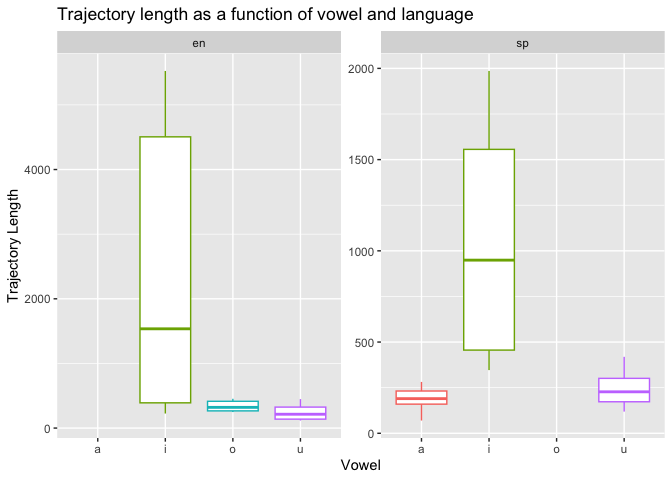
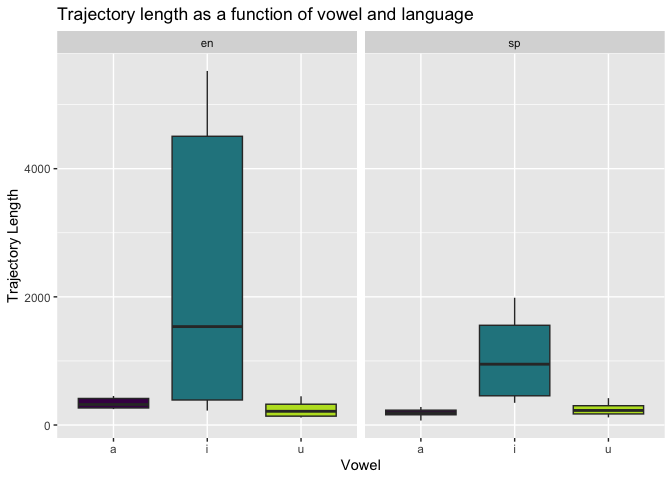
change some colors

diff --git a/README.md b/README.md
@@ -1,5 +1,5 @@
 # Programming Assignment 3
-2024-03-29
+2024-04-01
 
 # The script
 
@@ -93,22 +93,8 @@ write (and easier to make a mistake) and perhaps it has a higher
 
 ``` r
 library("tidyverse")
-```
-
-    ── Attaching packages ─────────────────────────────────────── tidyverse 1.3.2 ──
-    ✔ ggplot2 3.4.0     ✔ purrr   1.0.1
-    ✔ tibble  3.2.1     ✔ dplyr   1.1.0
-    ✔ tidyr   1.3.0     ✔ stringr 1.5.0
-    ✔ readr   2.1.3     ✔ forcats 1.0.0
-    ── Conflicts ────────────────────────────────────────── tidyverse_conflicts() ──
-    ✖ dplyr::filter() masks stats::filter()
-    ✖ dplyr::lag()    masks stats::lag()
-
-``` r
 library("here")
 ```
-
-    here() starts at /Users/meritxellfeliuribas/Desktop/pa_3
 
 ``` r
 data <- read_csv(here("data", "vowel_data.csv"))
@@ -171,7 +157,7 @@ glimpse(data)
     Columns: 17
     $ id       <chr> "apv", "apv", "apv", "apv", "apv", "apv", "apv", "apv", "apv"…
     $ item     <chr> "meet", "beat", "feet", "seat", "heat", "fleet", "moss", "bot…
-    $ vowel    <chr> "i", "i", "i", "i", "i", "i", "o", "o", "o", "o", "o", "o", "…
+    $ vowel    <chr> "i", "i", "i", "i", "i", "i", "a", "a", "a", "a", "a", "a", "…
     $ language <chr> "en", "en", "en", "en", "en", "en", "en", "en", "en", "en", "…
     $ f1_cent  <dbl> 431.55, 304.89, 328.76, 341.11, 365.02, 395.27, 716.20, 744.2…
     $ f2_cent  <dbl> 1395.01, 1866.02, 2194.84, 2297.86, 2004.63, 2341.64, 1040.77…
@@ -186,6 +172,8 @@ glimpse(data)
     $ f2_50    <dbl> 2444.92, 2414.35, 2333.45, 2294.87, 1862.47, 2402.81, 1014.69…
     $ f2_65    <dbl> 674.56, 834.91, 2346.27, 2338.29, 2450.00, 2330.96, 1078.70, …
     $ f2_80    <dbl> 783.21, 2480.01, 2051.60, 2282.94, 2343.41, 2359.00, 1144.02,…
+
+## Descriptive stats
 
 ``` r
 data %>%
@@ -206,20 +194,23 @@ data %>%
     # Groups:   language [2]
       language vowel f1_cent_mean f1_sd f2_cent_mean f2_sd tl_mean  tl_sd
       <chr>    <chr>        <dbl> <dbl>        <dbl> <dbl>   <dbl>  <dbl>
-    1 en       i             361.  46.4        2017. 354.    2388. 2441. 
-    2 en       o             679.  40.8        1099.  51.0    339.   90.5
+    1 en       a             679.  40.8        1099.  51.0    339.   90.5
+    2 en       i             361.  46.4        2017. 354.    2388. 2441. 
     3 en       u             436.  29.1         989. 108.     245.  133. 
     4 sp       a             757.  19.9        1370.  32.7    188.   73.8
     5 sp       i             386.  34.4        1532. 217.    1047.  700. 
     6 sp       u             425.  13.9         900.  65.3    245.  110. 
 
+## Plots
+
 ``` r
 # trajectory length as a function of vowel and language
 data %>%
   ggplot() +
-  aes(x = vowel, y = tl, color = vowel) +
-  facet_wrap(. ~ language, scales = "free_y") +
+  aes(x = vowel, y = tl, fill = vowel) +
+  facet_wrap(. ~ language) +
   geom_boxplot(show.legend = F) +
+  scale_fill_viridis_d(name = NULL, end = 0.9) +
   labs(x = "Vowel", y = "Trajectory Length", title = "Trajectory length as a function of vowel and language")
 ```
 
@@ -229,9 +220,10 @@ data %>%
 # f1 centroids as a function of vowel and language
 data %>%
   ggplot() +
-  aes(x = vowel, y = f1_cent, color = vowel) +
-  facet_wrap(. ~ language, scales = "free_y") +
+  aes(x = vowel, y = f1_cent, fill = vowel) +
+  facet_wrap(. ~ language) +
   geom_boxplot(show.legend = F) +
+  scale_fill_viridis_d(name = NULL, end = 0.9) +
   scale_y_reverse() +
   labs(x = "Vowel", y = "F1", title = "F1 as a function of vowel and language")
 ```
@@ -242,26 +234,56 @@ data %>%
 # f2 centroids as a function of vowel and language
 data %>%
   ggplot() +
-  aes(x = vowel, y = f2_cent, color = vowel) +
-  facet_wrap(. ~ language, scales = "free_y") +
+  aes(x = vowel, y = f2_cent, fill = vowel) +
+  facet_wrap(. ~ language) +
   geom_boxplot(show.legend = F) +
+  scale_fill_viridis_d(name = NULL, end = 0.9) +
   scale_y_reverse() +
   labs(x = "Vowel", y = "F2", title = "F2 as a function of vowel and language")
 ```
 
 ![](README_files/figure-commonmark/plots-3.png)
 
+## Challenge
+
 ``` r
-# Spectral centroids in F1/F2 vowel space
-data %>%
-  ggplot() +
-  aes(x = f2_cent, y = f1_cent, color = vowel) +
-  facet_grid(. ~ language) +
-  geom_point() +
-  stat_ellipse() +
-  scale_x_reverse() +
-  scale_y_reverse() +
-  labs(x = "F2", y = "F1", title = "Spectral centroids in F1/F2 vowel space by language")
+# trajectory length in the F1/F2 vowel space
+
+# I really wanted to try to make this one, but I had to focus on my QP (or, if not, it will never get done). I will definitely try it when the course is over, if you don't show us how to do it :) 
+
+# spectral centroids in F1/F2 vowel space
+vowel_means <- data %>% 
+  group_by(vowel, language) %>% 
+  summarize(f1_cent = mean(f1_cent), f2_cent = mean(f2_cent)) %>% 
+  ungroup() %>% 
+  mutate(order = case_when(vowel == "i" ~ 1, vowel == "a" ~ 2, TRUE ~ 3), 
+         vowel = forcats::fct_reorder2(vowel, vowel, order)) %>% 
+  arrange(order)
 ```
 
-![](README_files/figure-commonmark/plots-4.png)
+    `summarise()` has grouped output by 'vowel'. You can override using the
+    `.groups` argument.
+
+``` r
+data %>%
+  mutate(vowel = forcats::fct_relevel(vowel, "u", "a", "i")) %>% 
+  ggplot() +
+  aes(x = f2_cent, y = f1_cent, color = language, label = vowel) + 
+  geom_text(size = 3.5, alpha = 0.6, show.legend = F) + 
+  geom_path(
+    data = vowel_means, 
+    aes(group = language, lty = language), 
+    color = "grey") + 
+  geom_text(data = vowel_means, show.legend = F, size = 7) + 
+  scale_y_reverse() + 
+  scale_x_reverse() + 
+  scale_color_brewer(palette = "Set1") + 
+  labs(
+    title = "Vowel space comparison", 
+    subtitle = "Spectral centroids of English/Spanish cardinal vowels", 
+    y = "F1 (hz)", 
+    x = "F2 (hz)") + 
+  theme_minimal(base_size = 16)
+```
+
+![](README_files/figure-commonmark/unnamed-chunk-6-1.png)
